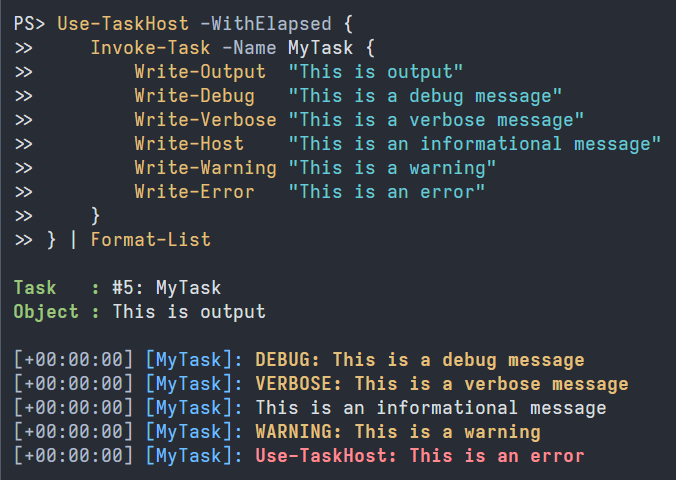
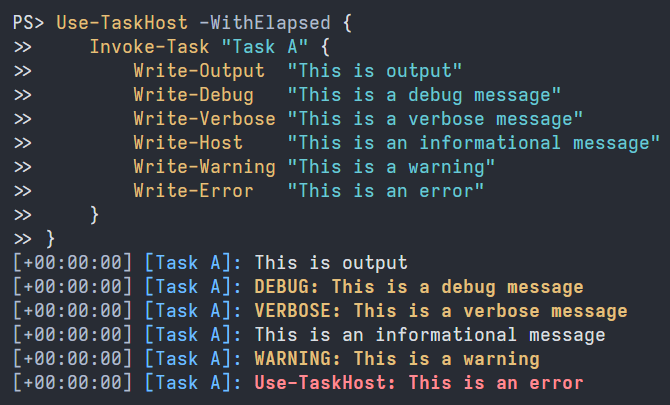
Documentation.

Changed region(s): [[0.0, 0.0296, 0.9851, 0.9778]]

diff --git a/README.md b/README.md
@@ -5,9 +5,9 @@ A thread-safe PowerShell
 wrapper to improve the clarity of output from long-running, possibly parallel
 tasks.  Available as a PowerShell module or as a NuGet package.
 
-TaskHost adds a wrapper or header to each output object or line, reporting the
-elapsed time and which task produced the output.  Line header components
-are optional and use color where supported.
+TaskHost adds a header to each line of output, reporting the elapsed time and
+which task produced the output.  Line header components are optional and use
+color where supported.
  
 ![Example output](misc/example.png)
 
@@ -55,48 +55,96 @@ Use-TaskHost {
 }
 ```
 
+Optionally, add `-WithElapsed` to enable the elapsed-time header.
+
+```ps1
+Use-TaskHost -WithElapsed {
+}
+```
+
 For each task, add an `Invoke-Task` command.
 
 ```ps1
-Use-TaskHost {
-    Invoke-Task "Name A" {
+Use-TaskHost -WithElapsed  {
+
+    Invoke-Task "Step 1" {
         Write-Host "Example output from a task"
     }
-    Invoke-Task "Name B" {
+
+    Invoke-Task "Step 2" {
         Write-Host "Example output from another task"
     }
+
 }
+```
+
+Output:
+
+```
+[+00:00:00] [Step 1]: Example output from a task
+[+00:00:00] [Step 2]: Example output from another task
 ```
 
 A task is a chunk of code whose output should be distinguishable from that of
 other tasks and non-task code.  Beyond that, what constitutes a task is
-entirely the discretion of the user of this module.  There is no restriction on
-the number of or size of tasks or on what can appear in a task's script block.
+entirely at the discretion of the user of this module.  There is no restriction
+on the number of or size of tasks or on what can appear in a task's script
+block.
+
+Tasks are nestable.
+
+```ps1
+Use-TaskHost -WithElapsed  {
+    Invoke-Task "Step 3" {
+
+        Invoke-Task "Part 1" {
+            Write-Host "Example output from a nested task"
+        }
+
+    }
+}
+```
+
+Output:
+
+```
+[+00:00:00] [Step 3|Part 1]: Example output from a nested task
+```
 
 ### Advanced Usage
 
 The PowerShell `ForEach-Object -Parallel` command complicates the preceding
 example. See
 [this script](https://github.com/sharpjs/Subatomix.PowerShell.TaskHost/blob/main/Subatomix.PowerShell.TaskHost.Module/Test-TaskHost.ps1)
-for a complete example.
+for a working example with detailed explanation.
 
-<!--
-TODO: Rewrite for 2.0
-
-The host wrapper exposes a `Header` property to enable a task to examine and
-change the header that appears in square brackets `[ ]` before each line of
-output.  This property is modifiable from the task script itself.
+Information about the currently executing task is available via the following
+expression, which returns null if there is no such task:
 
 ```ps1
-$Host.UI.Header = "new header"
+[Subatomix.PowerShell.TaskHost.TaskInfo]::Current
 ```
 
-Setting the property to an empty string disables the header.
+The `TaskInfo` object provides a few useful properties:
+
+- `Id`       – Unique integer identifier for the task.
+- `Name`     – Name of the task.  Writable.
+- `FullName` – `Name` prefixed with the `FullName` of the task's parent, if any.
+- `Parent`   – The task in which the current task is nested, if any.
+
+The `FullName` property determines the text that TaskHost prepends to each
+output line.  To change the text, set the `Name` property of the task or of its
+ancestors.
 
 ```ps1
-$Host.UI.Header = ""
+[Subatomix.PowerShell.TaskHost.TaskInfo]::Current.Name = "New name"
 ```
--->
+
+To remove the line header, set the property to an empty string.
+
+```ps1
+[Subatomix.PowerShell.TaskHost.TaskInfo]::Current.Name = ""
+```
 
 <!--
   Copyright 2023 Subatomix Research Inc.
